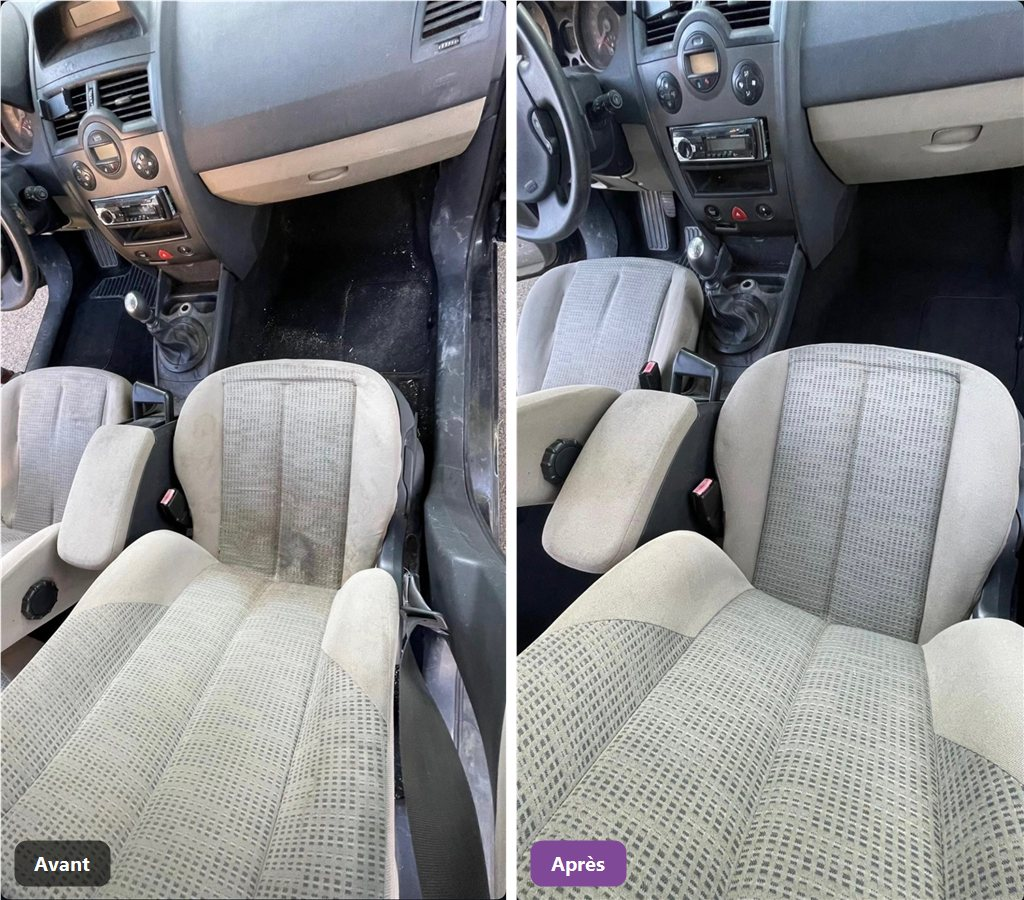
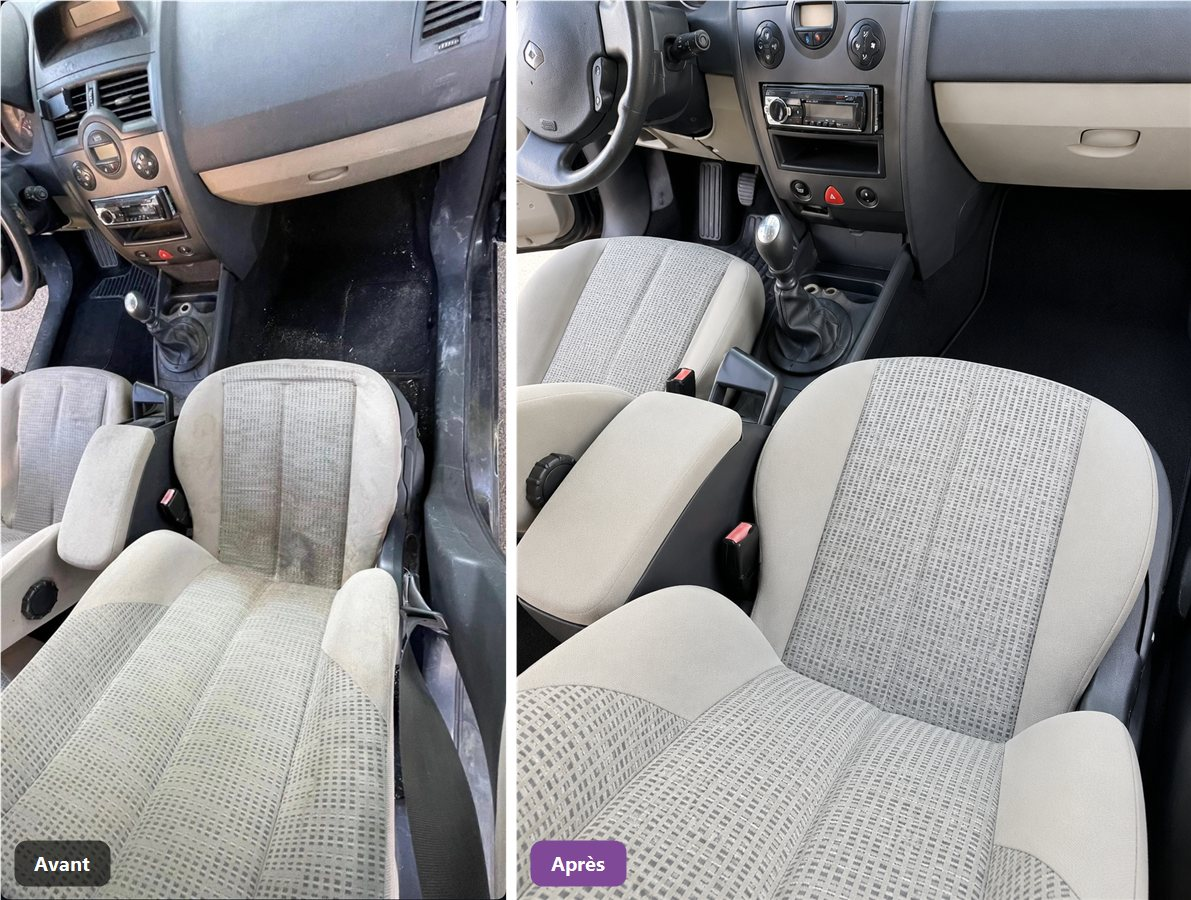
Vignettes Prestations + galerie Avant/Apres curatee (Services)
4 vignettes homepage mises a jour avec les vrais fichiers demandes.
Galerie Avant/Apres de ServicesPage reduite a 5 paires representatives
(Auto, Canape x2, Auto-sieges, Matelas) au lieu des 17 precedentes,
grille passee a 2 colonnes desktop pour rester lisible. Tapis reste
un visuel generique temporaire, signale comme tel dans JOURNAL.md.

diff --git a/src/pages/ServicesPage.jsx b/src/pages/ServicesPage.jsx
@@ -8,44 +8,21 @@ import {
   CANAPE_TAILLES, MATELAS_TAILLES,
 } from '../lib/pricing';
 
-// Collages avant/après générés depuis src/images/*-avant|apres.jpeg (voir JOURNAL.md) —
+// Collages avant/après générés depuis src/images/*-avant|apres.* (voir JOURNAL.md) —
 // les photos originales restent intactes dans src/images/ pour un usage indépendant (GMB, réseaux).
-import collageUn from '../images/collages/1-collage.jpg';
+// Galerie curatée à 5 paires représentatives (une par catégorie de service, deux pour Canapé).
 import collageBleu from '../images/collages/bleu-collage.jpg';
-import collageCamion from '../images/collages/camion-arriere-collage.jpg';
 import collageCanape from '../images/collages/canape-collage.jpg';
-import collageCoffre from '../images/collages/coffre-collage.jpg';
+import collageCanape1 from '../images/collages/canape1-collage.jpg';
 import collageMatelas from '../images/collages/matelas-collage.jpg';
-import collagePhare from '../images/collages/phare-collage.jpg';
-import collageRail from '../images/collages/rail-collage.jpg';
-import collageGobelet from '../images/collages/range-gobelet-collage.jpg';
-import collageRoue from '../images/collages/roue-collage.jpg';
-import collageSiegeArriere from '../images/collages/siege-arriere-collage.jpg';
 import collageSiegeBeige from '../images/collages/siege-beige-collage.jpg';
-import collageSiegeGris from '../images/collages/siege-gris-collage.jpg';
-import collageTapisVolant from '../images/collages/tapis-volant-collage.jpg';
-import collageTapisVolant2 from '../images/collages/tapis-volant2-collage.jpg';
-import collageVolant from '../images/collages/volant-collage.jpg';
-import collageVolant2 from '../images/collages/volant2-collage.jpg';
 
 const GALERIE = [
+  { label: 'Auto',             img: collageBleu },
+  { label: 'Canapé',           img: collageCanape1 },
   { label: 'Canapé',           img: collageCanape },
+  { label: 'Auto — sièges',    img: collageSiegeBeige },
   { label: 'Matelas',          img: collageMatelas },
-  { label: 'Phare',            img: collagePhare },
-  { label: 'Jante',            img: collageRoue },
-  { label: 'Volant',           img: collageVolant },
-  { label: 'Volant',           img: collageVolant2 },
-  { label: 'Tapis de sol',     img: collageTapisVolant },
-  { label: 'Tapis de sol',     img: collageTapisVolant2 },
-  { label: 'Rail de siège',    img: collageRail },
-  { label: 'Sous le siège',    img: collageUn },
-  { label: 'Siège arrière',    img: collageSiegeArriere },
-  { label: 'Siège beige',      img: collageSiegeBeige },
-  { label: 'Siège gris',       img: collageSiegeGris },
-  { label: 'Coffre',           img: collageCoffre },
-  { label: 'Porte-gobelets',   img: collageGobelet },
-  { label: 'Habitacle',        img: collageBleu },
-  { label: 'Banquette arrière', img: collageCamion },
 ];
 
 function Price({ children }) {
@@ -210,12 +187,12 @@ export default function ServicesPage() {
               De vraies interventions, pas de mise en scène.
             </p>
           </FadeIn>
-          <div style={{ display: 'grid', gridTemplateColumns: 'repeat(auto-fit, minmax(260px, 1fr))', gap: 20 }}>
+          <div style={{ display: 'grid', gridTemplateColumns: 'repeat(auto-fit, minmax(460px, 1fr))', gap: 24 }}>
             {GALERIE.map(({ label, img }, i) => (
-              <FadeIn key={img} delay={i * 0.04}>
+              <FadeIn key={img} delay={i * 0.06}>
                 <div style={{ borderRadius: 12, overflow: 'hidden' }}>
-                  <img src={img} alt={`${label} — avant/après`} loading="lazy" style={{ width: '100%', height: 180, objectFit: 'cover', display: 'block' }} />
-                  <div style={{ background: 'rgba(255,255,255,0.06)', padding: '10px 14px', fontSize: 13, color: 'rgba(255,255,255,0.8)', fontWeight: 600 }}>{label}</div>
+                  <img src={img} alt={`${label} — avant/après`} loading="lazy" style={{ width: '100%', height: 240, objectFit: 'cover', display: 'block' }} />
+                  <div style={{ background: 'rgba(255,255,255,0.06)', padding: '12px 16px', fontSize: 14, color: 'rgba(255,255,255,0.8)', fontWeight: 600 }}>{label}</div>
                 </div>
               </FadeIn>
             ))}

diff --git a/src/pages/HomePage.jsx b/src/pages/HomePage.jsx
@@ -10,10 +10,11 @@ import { RAYON_GRATUIT_KM, TARIF_KM_SUPPLEMENTAIRE } from '../lib/pricing';
 // src/images/bleu-avant.jpeg et bleu-apres.jpeg, jamais modifiées ni déplacées.
 import heroAvant from '../images/bleu-avant-hero.jpg';
 import heroApres from '../images/bleu-apres-hero.jpg';
-import apercuAuto from '../images/roue-apres.jpeg';
-import apercuCanape from '../images/bleu-apres.jpeg';
-import apercuTapis from '../images/rail-apres.jpeg';
-import apercuMatelas from '../images/camion-arriere-apres.jpeg';
+import apercuAuto from '../images/siege-beige-apres.png';
+import apercuCanape from '../images/canape1-apres.png';
+// Tapis : visuel générique temporaire (pas une vraie photo) — voir JOURNAL.md
+import apercuTapis from '../images/tapis.png';
+import apercuMatelas from '../images/matelas-apres.png';
 
 const ACCROCHE_SUB = 'La preuve en image : un intérieur transformé, sans bouger de chez vous.';
 

diff --git a/JOURNAL.md b/JOURNAL.md
@@ -270,3 +270,32 @@ Un slider avant/après à glissière nécessite de la gestion d'état (position 
 - Hauteur appliquée : 45svh desktop (>768px), 250px mobile (≤768px)
 - Rendu vérifié desktop ET mobile, capturé
 - TODO restants : aucun
+
+---
+
+## 2026-07-31 (suite) — Vignettes Prestations + galerie Avant/Après curatée (Services)
+
+**Fichiers vérifiés par listing avant codage** (noms réels, différents des libellés "avec accent" utilisés dans la demande) :
+- `siege-beige-apres.png` (nouvelle version, remplace l'ancien `.jpeg`)
+- `canape1-apres.png` / `canape1-avant.jpeg` (= "canapé-un" — le fichier utilise le chiffre "1", pas le mot "un")
+- `matelas-apres.png` (nouvelle version sans le filigrane "SublimNet" présent sur l'ancienne)
+- `tapis.png` — confirmé comme seul visuel disponible pour cette catégorie (repéré la session précédente, resté non intégré jusqu'ici)
+- Paire déjà existante réutilisée telle quelle : `canape-avant.jpeg` / `canapé-apres.jpeg` (incohérence d'accent déjà connue, non corrigée)
+
+**Vignettes "Nos Prestations" (`HomePage.jsx`)** mises à jour : Auto → `siege-beige-apres.png`, Canapé → `canape1-apres.png`, Matelas → `matelas-apres.png`, Tapis → `tapis.png`.
+
+**Galerie Avant/Après (`ServicesPage.jsx`) curatée à 5 paires** (au lieu des 17 précédentes, qui couvraient toutes les photos disponibles sans distinction) : Auto (bleu, déjà en place), Canapé ×2 (`canape1` nouveau + `canape` existant), Auto — sièges (`siege-beige`, après mis à jour), Matelas (après mis à jour). Les 12 autres paires (jante, volant, rail, coffre, phare, tapis de sol, sièges arrière/gris, porte-gobelets, etc.) retirées du tableau `GALERIE` — toujours présentes en tant que fichiers et collages sur disque, juste plus affichées sur cette page.
+- 3 collages générés/régénérés avec le même script que la première fois (bandeau 900px, badges Avant/Après) : `collages/canape1-collage.jpg` (nouveau), `collages/siege-beige-collage.jpg` et `collages/matelas-collage.jpg` (régénérés avec les nouvelles photos "après").
+- Grille adaptée à 2 colonnes desktop (`minmax(460px, 1fr)` au lieu de `260px`) avec cartes plus grandes (240px de hauteur au lieu de 180px) — la grille précédente (auto-fit 260px) aurait donné une répartition 4+1 peu naturelle avec seulement 5 éléments ; 2 colonnes donne un rendu 2+2+1 propre.
+
+**Placeholder signalé** : `tapis.png` est un visuel générique/généré, **pas une vraie photo** — aucune paire avant/après n'existe pour le tapis (cohérent avec la règle métier "Tapis sur devis uniquement"). Seule cette catégorie est concernée ; toutes les autres vignettes et paires de cette mise à jour sont de vraies photos.
+
+**Bug rencontré en cours de route** : le processus `npm start` (actif depuis plusieurs jours de session) s'était arrêté silencieusement — `curl` ne répondait plus, sans trace d'erreur dans les logs après le dernier "Compiled successfully". Redémarré sans souci, recompilation propre.
+
+**Vérifié** : compilation sans erreur, capture desktop (1440px) et mobile (375px) des vignettes homepage et de la galerie Services — grille 2 colonnes lisible, non surchargée avec 5 paires, aucune erreur console.
+
+**Rapport :**
+- Fichiers trouvés : tous (aucun manquant)
+- Rendu vérifié desktop + mobile, capturé
+- Galerie Avant/Après : 5 paires (Auto, Canapé ×2, Auto — sièges, Matelas), grille 2 colonnes
+- TODO restants : aucun côté code — reste à obtenir une vraie photo tapis (avant/après) quand disponible
